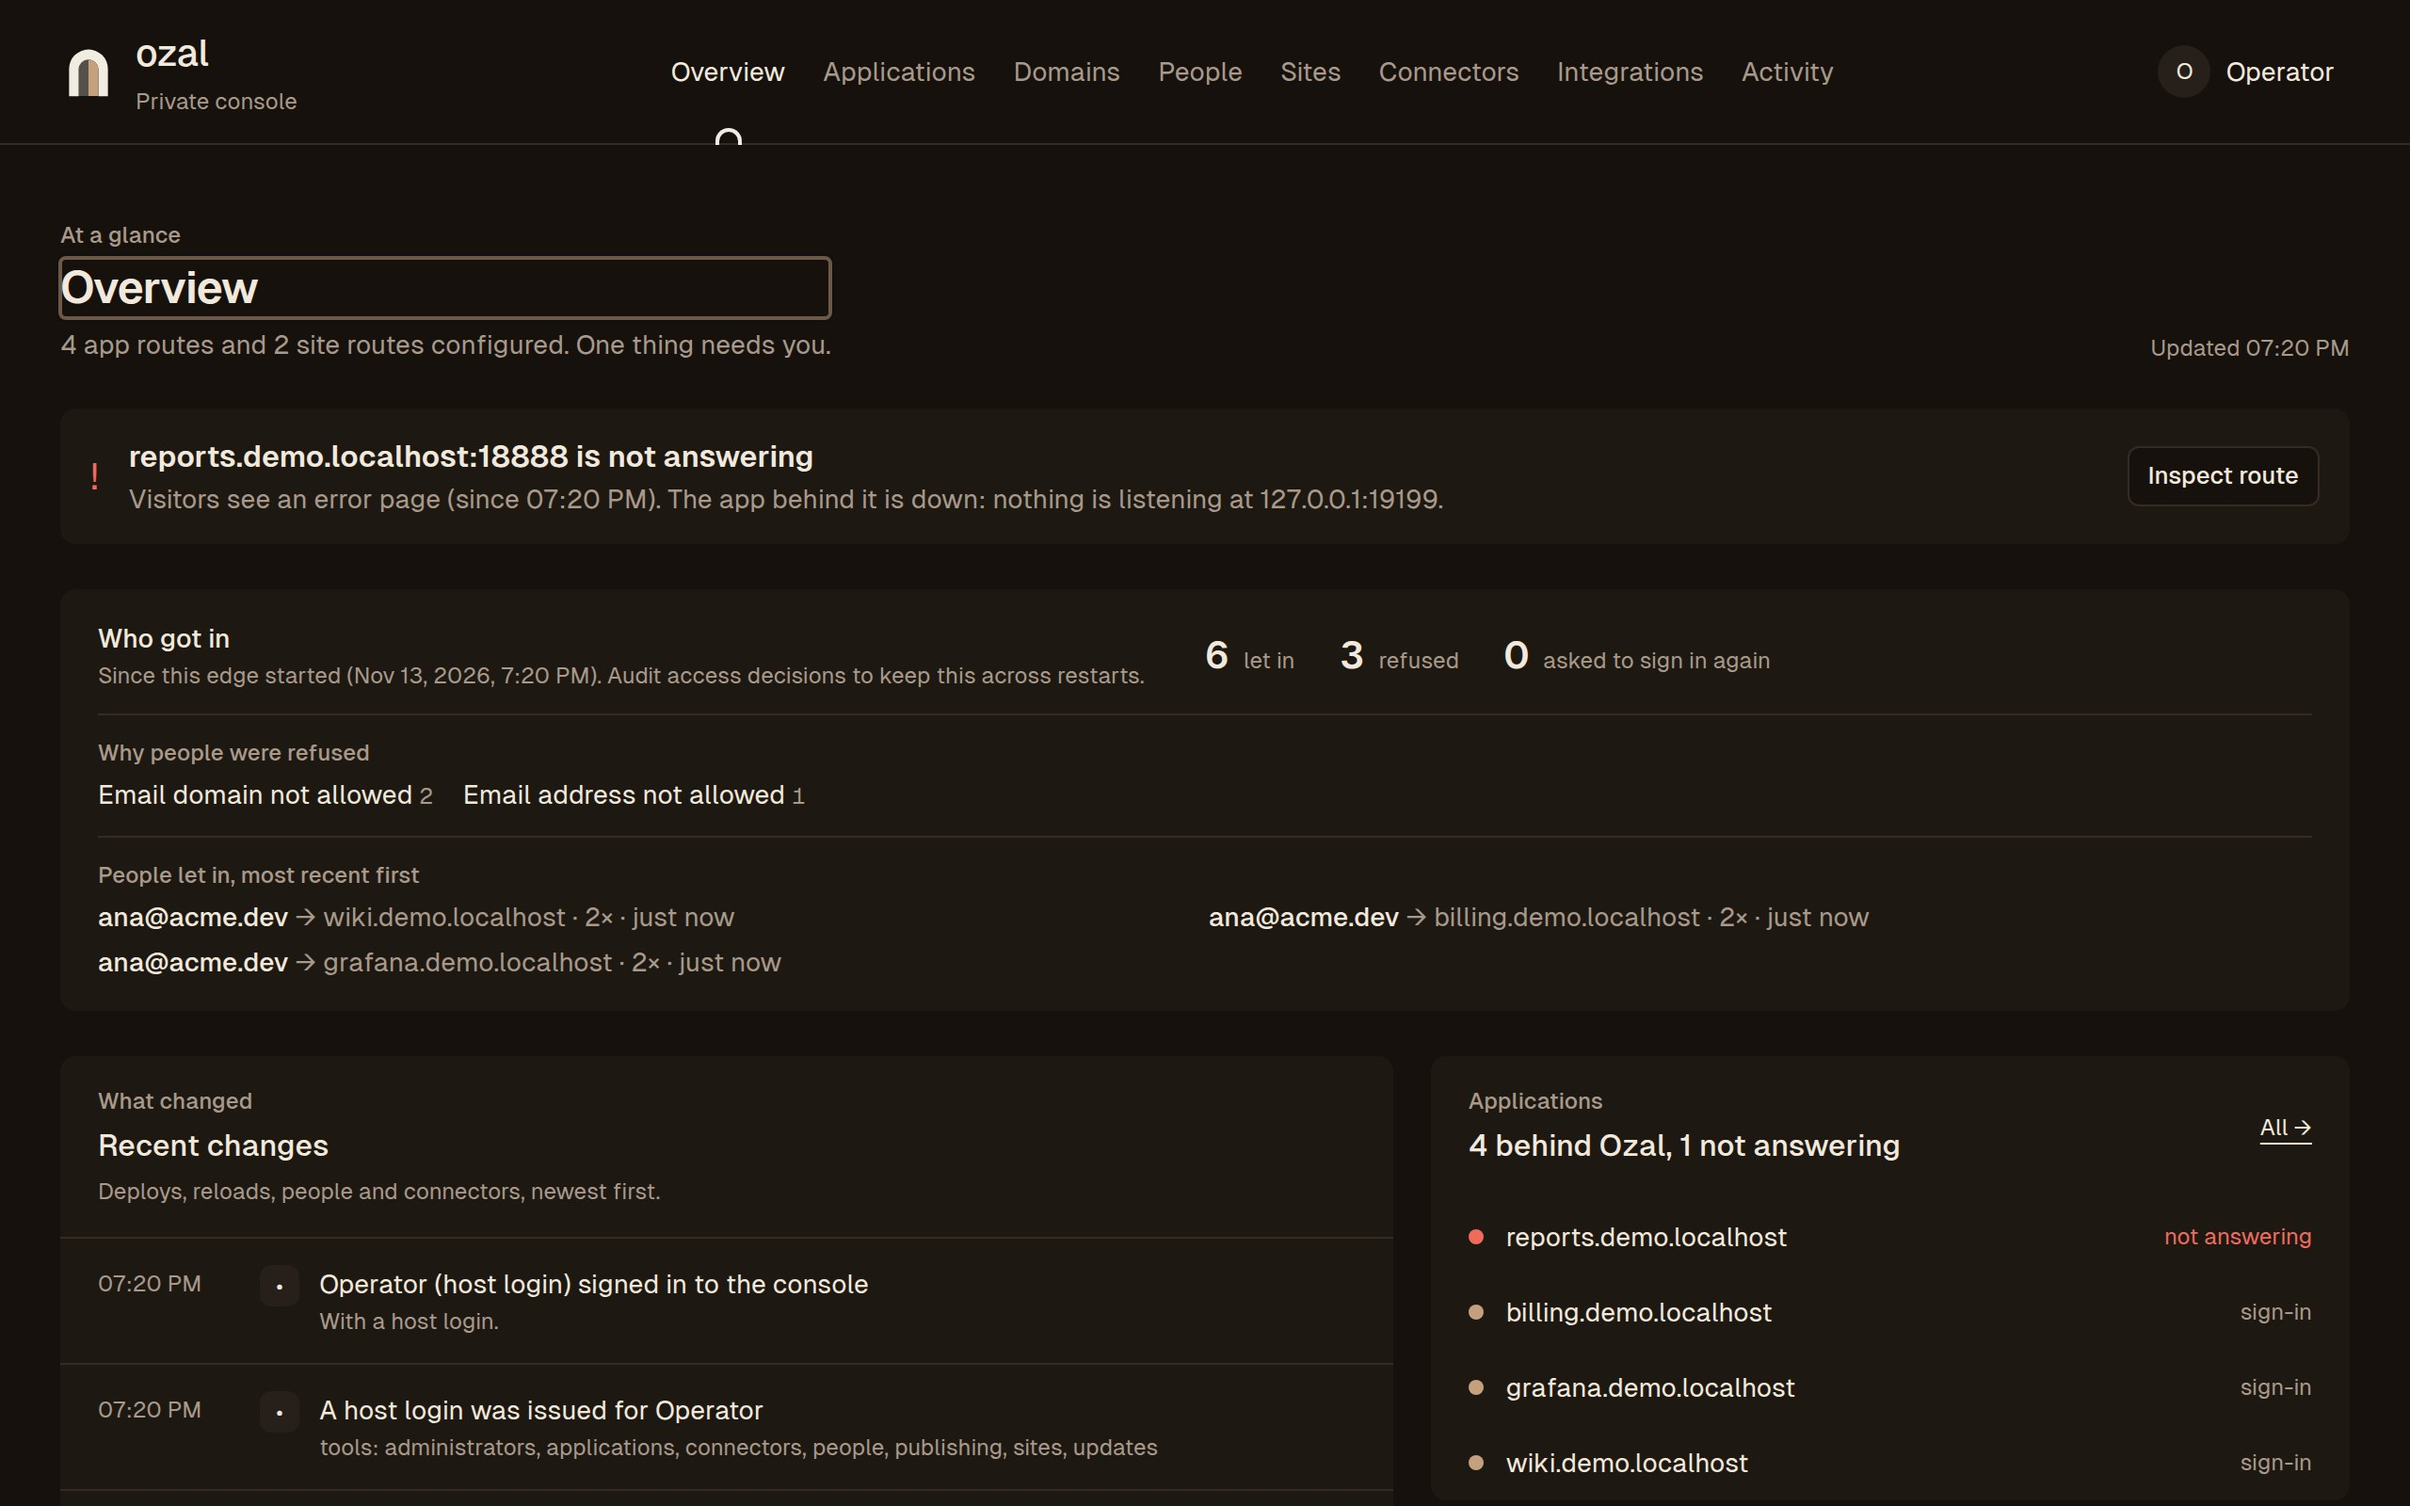
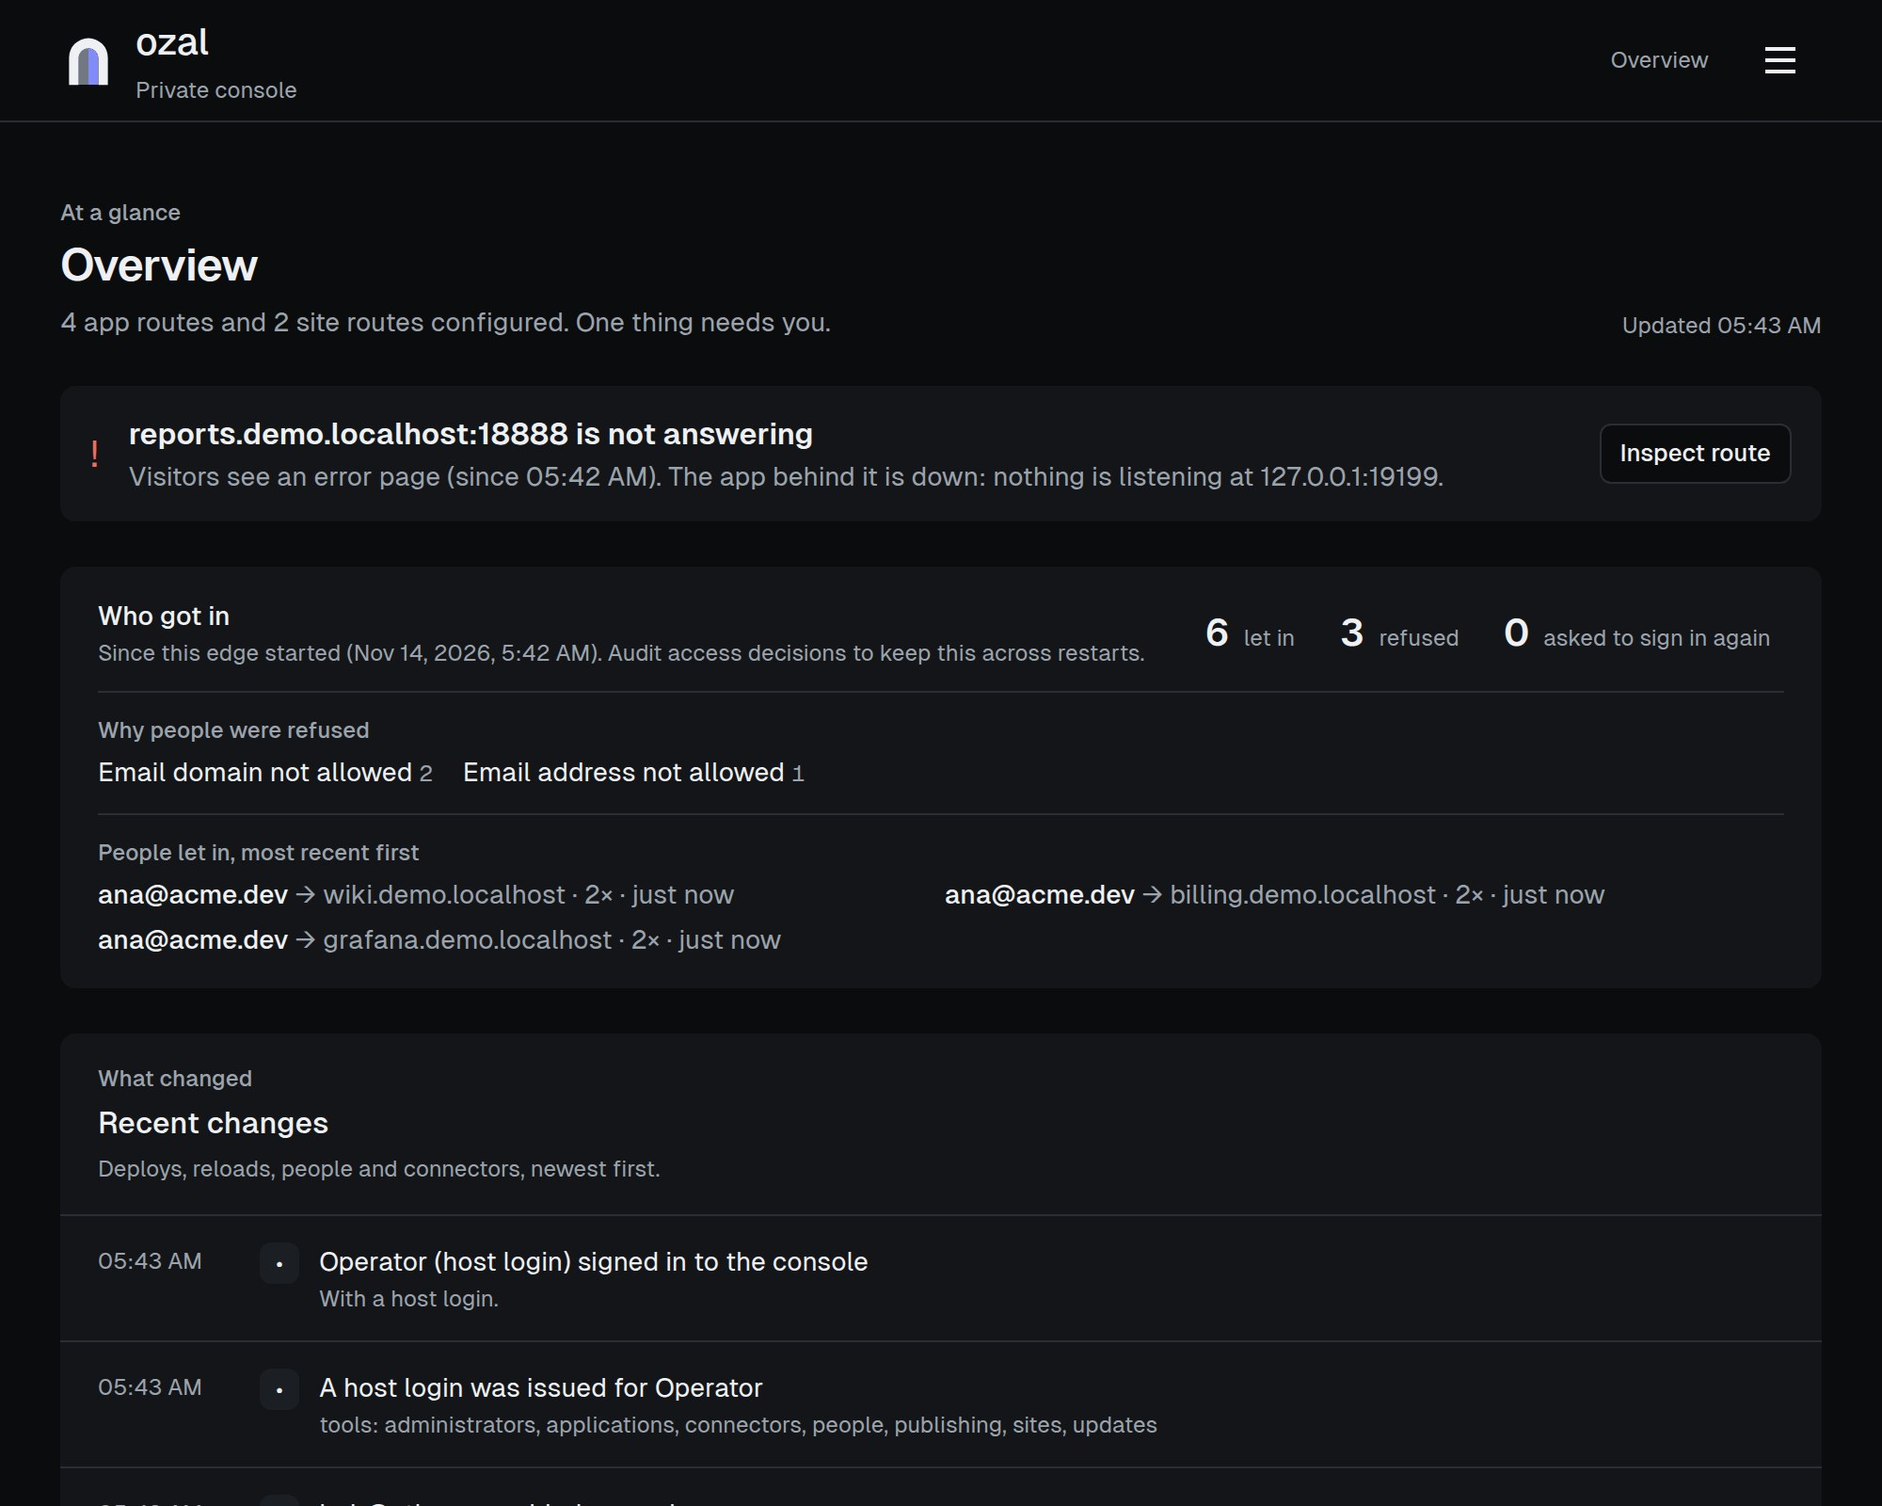
site: a shorter console tour, readable steps and the demo first
The tour's console stills were cropped for the old sidebar layout, so the
Overview step showed a clipped, enlarged corner. The stills are now taken
at a 1000 px window and cropped to the whole console, and each console step
also has a phone-width still of the one detail it names, served below
861 px through <picture>, so a phone shows a readable screen instead of the
whole console at a third of its size.

On a wide screen each step is 40% of the viewport tall instead of 66%, and
a step not on stage stays readable in the muted colour instead of fading
to 32% opacity. Muted text, control borders and hairlines gain contrast
(muted at least 6.8:1, control borders at least 3:1).

The live demo now follows the first screen, which links to it, and the
navigation starts with it. Copy repeated between the first screen, "How it
works" and "Also in the binary" is removed; the password and audit claims
move unchanged to the identify stage and the tour's last step.

The stills were captured with the palette of the next commit.

diff --git a/site/src/styles.css b/site/src/styles.css
@@ -17,22 +17,24 @@
    is a property of the page, not decoration on a component.
    Ivory is text and the arch of the mark. Green, red and blue are states
    (allowed, refused, waiting): they appear only where a state exists and
-   never as decoration. Fonts are bundled (OFL): no third-party requests. */
+   never as decoration. Fonts are bundled (OFL): no third-party requests.
+   Contrast (WCAG 2.1 AA): muted text is at least 6.8:1 on every surface
+   and depth, the border of a control, at least 3:1. */
 @theme {
   --font-sans: "Geist Sans", ui-sans-serif, system-ui, sans-serif;
   --font-mono: "Geist Mono", ui-monospace, SFMono-Regular, Consolas, monospace;
   --color-bg: #16110d;
   --color-tile: #1e1813;
   --color-tile-2: #271f19;
-  --color-tile-3: #352b23;
+  --color-tile-3: #41352b;
   --color-ink: #f2e9dc;
   --color-ink-2: #ddd1c1;
-  --color-muted: #a8998a;
+  --color-muted: #b5a696;
   --color-brand: #f1ece2;
   --color-loud: #e59a57;
   --color-loud-ink: #16110d;
   --color-signal: #e59a57;
-  --color-depth: #55514a;
+  --color-depth: #857869;
   --color-ok: #78cc8a;
   --color-no: #ee6b5e;
   --color-wait: #86b3e6;
@@ -288,10 +290,13 @@
   .walk-count { display: none; }
   .crop { display: block; overflow: hidden; cursor: zoom-in; }
   .crop img { display: block; height: auto; max-width: none; }
-  /* Source stills are 2560x1600; the console's content starts at x=550. */
-  .crop-overview { aspect-ratio: 1940 / 1123; } .crop-overview img { width: 131.96%; margin: -3.3% 0 0 -28.35%; }
-  .crop-people { aspect-ratio: 1940 / 806; } .crop-people img { width: 131.96%; margin: -3.81% 0 0 -28.35%; }
-  .crop-access-log { aspect-ratio: 1940 / 1082; } .crop-access-log img { width: 131.96%; margin: -13.09% 0 0 -28.35%; }
+  /* Console stills are 2000x1600 (a 1000 px window at 2x, see
+     scripts/demo/tour.mjs). Each crop keeps x 40-1960, the console's content
+     with its header, so the tile is about 0.4 of the source and text stays
+     legible. Percentages are of the 1920 px crop width. */
+  .crop-overview { aspect-ratio: 1920 / 1070; } .crop-overview img { width: 104.17%; margin: 0 0 0 -2.083%; }
+  .crop-people { aspect-ratio: 1920 / 1040; } .crop-people img { width: 104.17%; margin: 0 0 0 -2.083%; }
+  .crop-access-log { aspect-ratio: 1920 / 1010; } .crop-access-log img { width: 104.17%; margin: -30.73% 0 0 -2.083%; }
   .crop-portal { aspect-ratio: 840 / 800; } .crop-portal img, .crop-refused img { width: 100%; }
 
   /* ---------- The rest of the front door ---------- */
@@ -372,14 +377,22 @@
   .topbar nav { order: 3; flex-basis: 100%; gap: 4px 20px; margin: 0; }
   .topbar nav a { font-size: var(--t-small); }
   .header-action { margin-left: auto; }
-  .section { margin-top: 104px; scroll-margin-top: 24px; }
-  .head { margin-bottom: 36px; }
-  .hero { grid-template-columns: minmax(0, 1fr); gap: 56px; padding-top: 36px; }
+  .section { margin-top: 88px; scroll-margin-top: 24px; }
+  .head { gap: 14px; margin-bottom: 28px; }
+  .hero { grid-template-columns: minmax(0, 1fr); gap: 44px; padding-top: 32px; }
+  .hero-note { margin-top: 22px; }
   .hero-description { font-size: 1.125rem; margin-top: 22px; }
   .hero-actions { margin-top: 26px; }
   .door { max-width: 520px; width: 100%; margin-inline: auto; }
   .how, .more, .status, .start { grid-template-columns: minmax(0, 1fr); }
-  .walk { gap: 56px; }
+  .walk { gap: 48px; }
+  .step { gap: 16px; }
+  /* A narrow screen would show the console at a third of its size, too
+     small to read. Its steps show a phone-width still of the one detail the
+     step names instead (<picture>, see index.astro), whole and uncropped;
+     "Open full size" keeps the whole screen a tap away. */
+  :is(.crop-overview, .crop-people, .crop-access-log) { aspect-ratio: auto; }
+  :is(.crop-overview, .crop-people, .crop-access-log) img { width: 100%; margin: 0; }
   .start { padding: 28px; }
   .works li { grid-template-columns: minmax(0, 1fr) auto; }
   .works li p { grid-column: 1 / -1; grid-row: 2; }
@@ -425,12 +438,14 @@
 @media (min-width: 861px) {
   .walk.is-scrolly { grid-template-columns: minmax(0, .46fr) minmax(0, 1fr); gap: 0 64px; }
   .is-scrolly .step { display: contents; }
-  .is-scrolly .step-copy { position: relative; grid-column: 1; min-height: 66vh; padding-left: 26px; opacity: .32; }
+  .is-scrolly .step-copy { position: relative; grid-column: 1; min-height: max(40vh, 300px); padding-left: 26px; }
+  /* A step not on stage stays readable (muted, at least 6.8:1); the one on
+     stage takes full ink and the camel rail. */
+  .is-scrolly .step:not(.is-active) .step-copy :is(h3, p) { color: var(--color-muted); }
   .is-scrolly .step-copy::before { content: ""; position: absolute; left: 0; top: 0; bottom: 0; width: 2px; background: var(--color-tile-3); }
   .is-scrolly .step:nth-child(1) .step-copy { grid-row: 1; } .is-scrolly .step:nth-child(2) .step-copy { grid-row: 2; }
   .is-scrolly .step:nth-child(3) .step-copy { grid-row: 3; } .is-scrolly .step:nth-child(4) .step-copy { grid-row: 4; }
   .is-scrolly .step:nth-child(5) .step-copy { grid-row: 5; }
-  .is-scrolly .step.is-active .step-copy { opacity: 1; }
   .is-scrolly .step.is-active .step-copy::before { background: var(--color-loud); }
   .is-scrolly .step-shot { order: 0; grid-column: 2; grid-row: 1 / span 5; position: sticky; top: 96px; height: calc(100vh - 128px); max-width: none; display: grid; align-content: center; opacity: 0; transform: translateY(14px) scale(.985); pointer-events: none; }
   .is-scrolly .step-shot { visibility: hidden; }
@@ -523,7 +538,7 @@
   /* The tour's stage crosses from one screen to the next, and a matrix cell
      whose answer changed says so once. */
   .is-scrolly .step-shot { transition: opacity 380ms ease, transform 520ms var(--ease); }
-  .is-scrolly .step-copy { transition: opacity 300ms ease; }
+  .is-scrolly .step-copy :is(h3, p) { transition: color 250ms ease; }
   .is-scrolly .step-copy::before { transition: background-color 300ms ease; }
   .cell-changed { animation: cell-changed 900ms ease-out; }
   @keyframes cell-changed { from { box-shadow: 0 0 0 3px color-mix(in srgb, var(--tone) 70%, transparent); } to { box-shadow: 0 0 0 3px transparent; } }

diff --git a/site/README.md b/site/README.md
@@ -33,25 +33,35 @@ test compares its answer with `auth.NewReport`. The page states what it does not
 
 The page is ordered as a product story:
 
-1. **First screen.** What Ozal is, "Get started", and the doorway: three recorded requests for
-   `grafana.acme.dev` (let in, refused with a reason, sent to sign in) that walk the checks one by
-   one. Native radios choose the request; `page.ts` plays the three twice while on screen and stops
-   at the first click or key. Under reduced motion it rests on the first request.
-2. **Why it exists.** The three usual ways to share an internal tool and what each costs.
-3. **How it works.** The checks in order, a `policy explain` trace, and the identity headers an
+1. **First screen.** What Ozal is, "Get started", "Try the live demo", and the doorway: three
+   recorded requests for `grafana.acme.dev` (let in, refused with a reason, sent to sign in) that
+   walk the checks one by one. Native radios choose the request; `page.ts` plays the three twice
+   while on screen and stops at the first click or key. Under reduced motion it rests on the first
+   request.
+2. **Live demo.** Right after the first screen, so the real engine is one scroll away. An access
+   matrix: four people against four apps, every cell answered by the real engine. Choosing a cell
+   explains that answer; the sign-in settings re-answer the whole matrix, and a cell whose answer
+   changed flashes once.
+3. **Why it exists.** The three usual ways to share an internal tool, what each costs, and the
+   one front door.
+4. **How it works.** The checks in order, a `policy explain` trace, and the identity headers an
    app receives. Only stages that run by default are listed.
-4. **Live demo.** An access matrix: four people against four apps, every cell answered by the
-   real engine. Choosing a cell explains that answer; the sign-in settings re-answer the whole
-   matrix, and a cell whose answer changed flashes once.
 5. **The console.** Five real screens, each labelled with who sees it (operator, Ana or Bob)
    and cropped in CSS to the part the step is about; the link opens the whole still. On a wide
    screen `page.ts` adds `.is-scrolly`: the screens share one sticky stage and the one shown is
-   the step whose text is at the middle of the viewport. The page scrolls normally and never
-   moves on its own. Without scripts, or on a narrow screen, every step keeps its own screen.
-   The page carries no video. `scripts/demo/tour.mjs` regenerates the stills by signing in with
-   a host login; if their layout changes, update the `.crop-*` rules in `src/styles.css`.
-6. **Also in the binary, status, and get started.** A Domains card (demo data), what works today
-   with how far each feature is proven, who Ozal is and is not for, and the commands to try it.
+   the step whose text is at the middle of the viewport. Each step's text is about 40% of the
+   viewport tall, and a step not on stage stays readable in the muted colour. The page scrolls
+   normally and never moves on its own. Without scripts, or on a narrow screen, every step keeps
+   its own screen. Below 861 px a console step shows a phone-width still of the one detail it
+   names (`<name>-narrow.jpg`, through `<picture>`), whole and readable.
+   The page carries no video. `scripts/demo/tour.mjs` regenerates every still by signing in with
+   a host login, including the narrow ones, clipped from the texts each `shot()` call names; if
+   the wide layout changes, update the `.crop-*` rules in `src/styles.css`, and if a narrow
+   still's height changes, its `narrowH` in `src/pages/index.astro`.
+6. **Also in the binary, status, and get started.** A Domains card (demo data) and static sites,
+   what works today with how far each feature is proven, who Ozal is and is not for, and the
+   commands to try it. Each capability is described once: sign-in lives in the pipeline and the
+   tour, the decision record in the tour's last step.
 
 The site presents capabilities without a public roadmap. The public source is linked; the page
 does not link to release downloads.
